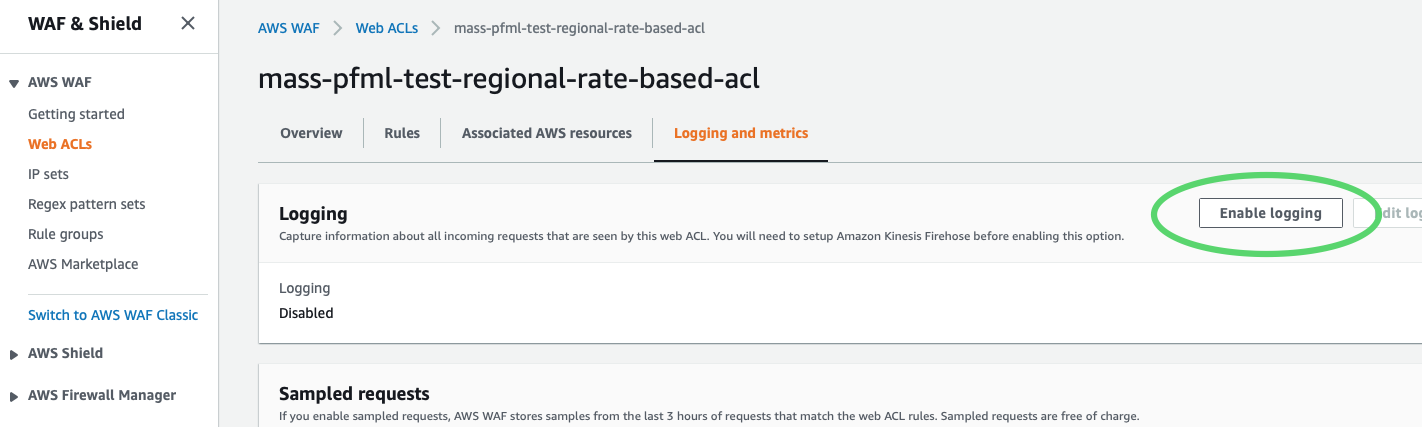
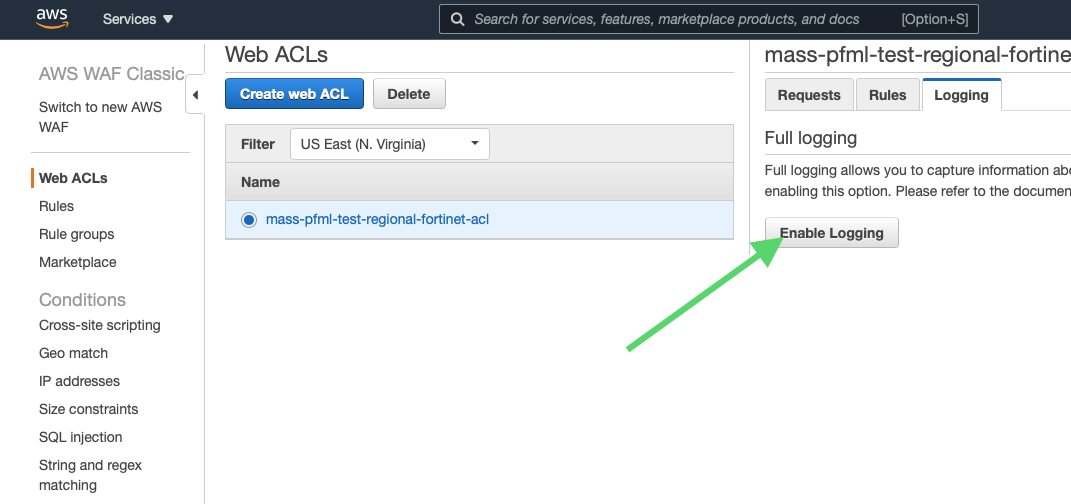
API-1072 Automate KDF creation/association (#2478)
* Add files for kinesis data firehose and kinesis firehose data sources

* Change buffer-size and buffer-intervals to defaults in Kinesis Data Firehose

* Remove README on manual application of KDF

* Add timestamp to Kinesis Data Firehose (KDF)

It appears that connecting a Kinesis Data Source to an existing KDF
breaks the connection somewhere between the data source and New Relic.
Adding a timestamp to the KDF will force replacement of the KDF as well
as the "Kinesis delivery stream" in New Relic. This is a test to determine
if this change will maintain continuity of logging after making a
modification to the KDF.

* remove timestamp from kdf

* Connect Fortinet Managed Rules to Kinesis Data Firehose

* Remove fortinet acl -> kdf association

This is actually not a capability offered by terraform for AWS WAF Classic.

* Add readme explaining manual connection to kdf

* Resolve markdown lint MD009

* Consolodate KDF resources

diff --git a/infra/env-shared/template/README.md b/infra/env-shared/template/README.md
@@ -1,130 +1,54 @@
-# Create Kinesis Data Firehose stream and connect to AWS WAF
+# On Kinesis Data Firehose
 
-As of 10 Dec 2020, creating the KDF in terraform presents a [security risk][terraform issue]. This document describes the current practice for creating a Kinesis Data Firehose stream and connecting it to the AWS WAF in each environment.
+Everything needed for creating a Kinesis Data Firehose (KDF) and connecting it  
+to an AWS WAF ACL for logging is included in the .tf files in this folder.  
+WAFV2 resources, if included in these files (and properly set up), will be  
+automatically connected by terraform by running a `terraform apply` command in  
+ infra/env_shared/environments/\<environment name\>.
 
-## The following resources (contained in this folder) are created with Terraform
+## Special consideration for AWS WAF Classic resources
 
-1. The IAM role and policy for future KDF to use
-2. The S3 bucket for KDF dead-letter drop for data that failed to send to HTTP endpoint
-3. The KMS key the future KDF to encrypt/decrypt data in the S3 dead-letter drop
+Terraform does not have an equivalent to `aws_wafv2_web_acl_logging_configuration`  
+for AWS WAF Classic ACLs, so these configurations will need to be made using the  
+AWS Console. This specifically applies to the __Fortinet Managed Rules__.
 
-To create these resources run `terraform apply` in  
-`pfml/infra/env-shared/environments/<environment name>`
+### Connecting an AWS WAF Classic resource to the KDF
 
-## Create the KDF in the AWS console and connect it to terraform-created resources
+#### Navigate to AWS Firewall Manager
 
--*Go to the [KDF creation wizard][KDF creation page] and follow these steps**
+Enter "AWS Firewall Manager" in the search bar at the top of any AWS Console  
+Page and click on AWS Firewall Manager.
 
-### Step 1: Name and source
+![image](./readme_imgs/go_to_firewall_manager.png)
 
-- Delivery stream name -  **aws-waf-logs-mass-pflml-\<environment name\>-firewall-to-newrelic**
-  - **The* `aws-waf-logs-` *prefix is required by AWS*
-- Source -  **Direct PUT or other sources**
-- Enable encryption -  **yes**
-- Choose **Use customer managed CMK**
-- In the dropdown menu, look for `"Alias: mass-pfml-\<environment name\>-kinesis-s3-key"` (under the key id) and select.
-- Find the blue **Next** button at the bottom of the screen and click.
-  
-### Step 2. Process records
+#### Go to AWS WAF
 
-- Data transformation -  **Disabled**
-- Record format conversion -  **Disabled**
-- Click **Next**
+Click on "Go to AWS WAF" button  
 
-### Step 3. Choose a destination
+![image](readme_imgs/click_aws_waf.png)  
 
-- Destination -  **Third-party service provider**
-- The "Third-party service provider" dropdown will appear. Choose **New Relic**
-- HTTP endpoint URL - `https://aws-api.newrelic.com/firehose/v1`
-- For the "API key" field
-  - In another tab, in AWS Console, go to [AWS Systems Manager > Parameter Store][parameter store]
-  - Search for `newrelic`
-  - Click on **/admin/pfml-api/newrelic-api-key**
-  - On the bottom of the description, underneath "Value," click **show**
-  - Copy the key value
-  - Go back to the KDF creation wizard tab
-  - Paste key value into the text field under **Access key - *optional***
-- Content encoding - **GZIP**
-- Retry duration -  **60** (default)
-- S3 backup mode -  **Failed data only**
-- S3 bucket -  In the dropdown, choose **massgov-pfml-\<environment name\>-kinesis-dead-letter-drop**
-- Backup S3 bucket error prefix: **leave blank**
-- Click **Next**
-  
-### Step 4. Configure settings
+#### Go to AWS WAF Classic
 
-- **New Relic buffer conditions** (AWS recommendations for New Relic HTTP endpoint)
-  - Buffer size -  **15**
-  - Buffer interval -  **600**
-- **S3 buffer conditions**
-  - Buffer size -  **10**
-  - Buffer interval -  **400**
-- **S3 compression and encryption**
-  - S3 compression -  **GZIP**
-  - S3 encryption -  **enabled**
-  - The "KMS master key" dropdown will appear. Choose **mass-pfml-\<environment name\>-kinesis-s3-key**
-- Error logging -  **Disabled** (until we create a CloudWatch resource for this)
-- **Permissions**
-  - IAM Role -  **Choose existing IAM role**
-  - In the **Existing IAM roles** dropdown, choose **mass-pfml-\<environment name\>-kinesis-aws-waf-role**
-- Click **Next**
+Click on "Switch to AWS WAF Classic"  
 
-### Step 5. Review
+![image](readme_imgs/click_aws_classic.png)  
 
-- Do your best review
-- :sparkles: Click **Create delivery stream** :sparkles:
+#### Choose ACL to connect to KDF
 
-## Verify existence of KDF -> New Relic connection
+Click on the ACL you wish to connect to the KDF
 
-Sign in to New Relic. Click on "Entity explorer" at the top of the page. In the search bar, type "kinesis" and click on **Kinesis delivery stream**. If the `aws-waf-logs-mass-pfml-<environment>-firewall-to-newrelic`
-that you just created is there, congratulations! :tada: You did it!
+![image](readme_imgs/choose_acl.png)  
 
-## Connect AWS WAF resources to the KDF stream
+#### Edit logging configuration
 
-First, in the AWS Console, go to [AWS Firewall Manager > AWS WAF > Web ACLs][web acls]  
-Then...
+Click on "Logging" tab  
 
-### Click on an ACL
+![image](readme_imgs/click_on_logging.png)  
 
-![click acl](./readme_imgs/click_acl.png)
+#### Choose KDF to connect AWS WAF Classic ACL to
 
-### Click on "Logging and metrics"
+Click on dropdown menu and click on  
+ `aws-waf-logs-\<environment name\>-firewall-to-newrelic`  
+ then click "Create" button.
 
-![click logging and metrics](./readme_imgs/click_logging_and_metrics.png)
-
-### Click "Enable logging"
-
-![click enable logging](./readme_imgs/click_enable_logging.png)
-
-### Choose delivery stream and click "Enable logging"
-
-![choose data stream](readme_imgs/choose_delivery_stream.png)
-
-## Look for data in New Relic
-
-If you see data in your Kinesis delivery stream, you're done with this ACL! Great job! :+1:  
-
-Now...
-
-## Repeat this process for all of the other ACLs in scope
-
-Go back to [AWS Firewall Manager > AWS WAF > Web ACLs][web acls] and do it all again for the ACLs.  
-
-After all of those are complete...
-
-## Find button to swich scope and click on "Global(CloudFront)"
-
-![click on cloudfront](./readme_imgs/click_on_cloudfront.png)
-
-## Repeat "Connect AWS WAF resources to the KDF stream" above for each ACL
-
-![cloudfront acls](readme_imgs/cloudfront_acls.png)
-
----
-[KDF creation page]:https://console.aws.amazon.com/firehose/home?region=us-east-1#/wizard/nameAndSource
-
-[terraform issue]:https://github.com/hashicorp/terraform-provider-aws/pull/16684
-
-[parameter store]:https://console.aws.amazon.com/systems-manager/parameters/?region=us-east-1&tab=Table
-
-[web acls]:https://console.aws.amazon.com/wafv2/homev2/web-acls?region=us-east-1
+![image](readme_imgs/choose_kdf.png)  
